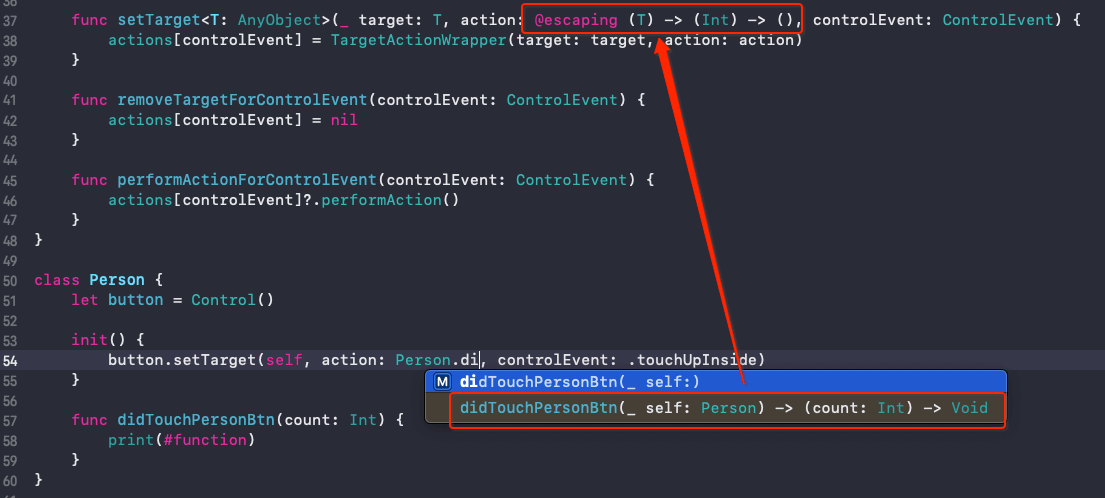
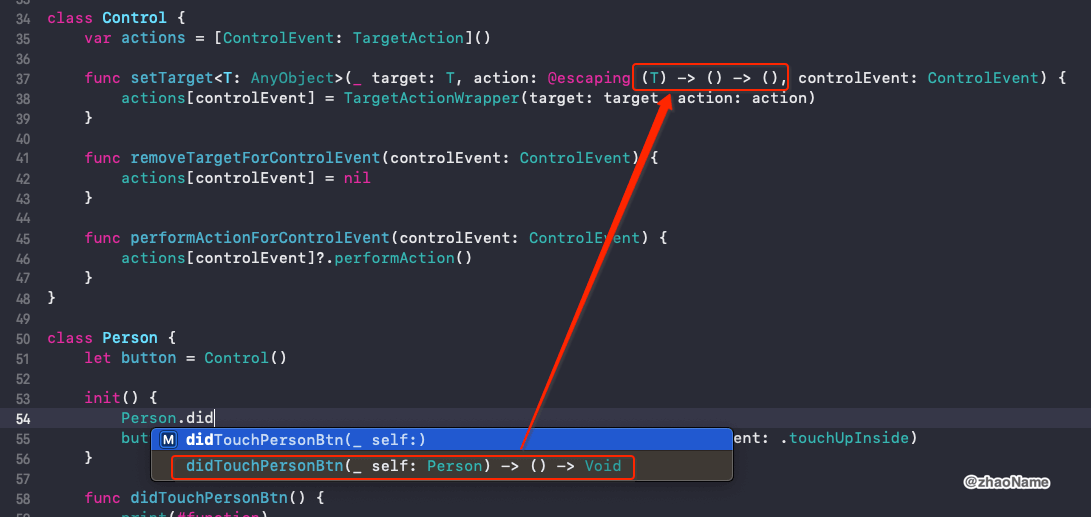
update

Changed region(s): [[0.0, 0.0, 0.9661, 1.0], [0.8726, 0.9036, 0.9661, 0.9639], [0.0623, 0.1205, 0.0935, 0.1506]]

diff --git a/Swift/CustomNamespace.md b/Swift/CustomNamespace.md
@@ -1,7 +1,7 @@
-# POP 实现类似 `xxx.rx.xxx` 的功能
+# 自定义命名空间
 
 
-在 RxSwift 中给 `UIButton` 添加点击事件的写法`button.rx.tap.subscribe {}` 。这里的 `rx` 一方面可以代表 RxSwift 这个三方库，另一方面还可以防止三方库自定义的计算属性 `tap` 和系统属性冲突(若有)。那 `rx` 是怎么实现的呢？
+在 RxSwift 中给 `UIButton` 添加点击事件的写法`button.rx.tap.subscribe {}` 。这里的 `rx` 一方面可以代表 RxSwift 这个三方库，另一方面还可以防止三方库自定义的属性 `tap` 和系统属性存在命名冲突(若有)。那 `rx` 是怎么实现的呢？
 
 <br>
 

diff --git a/Swift/Currying.md b/Swift/Currying.md
@@ -307,8 +307,6 @@ per.button.performActionForControlEvent(controlEvent: .touchUpInside)
 
 ![](../Images/Swift/Currying/Currying_images05.png)
 
-那相应的 `Person` 中 `didTouchPersonBtn()` 方法的类型为 `(Person) -> () -> ()`
-
 <br>
 
 参考
